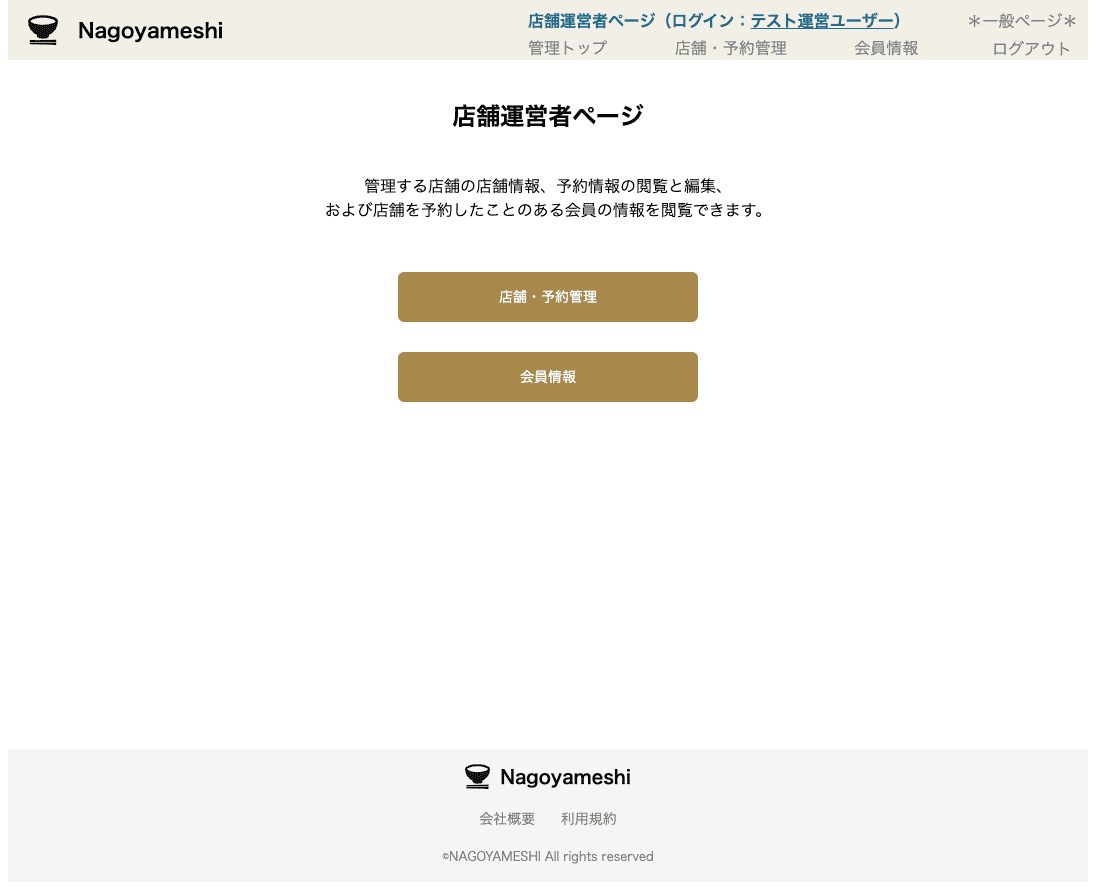
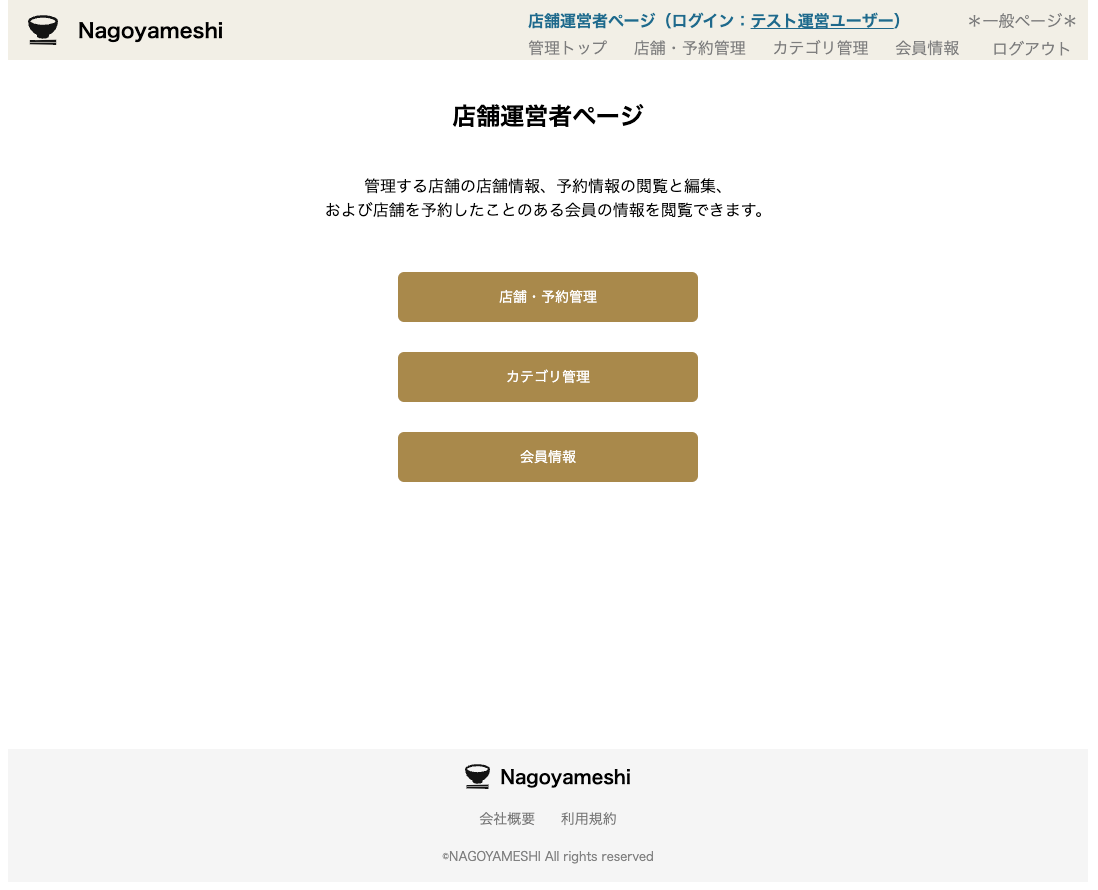
READMEファイル修正

diff --git a/README.md b/README.md
@@ -78,6 +78,11 @@ https://nagoyameshi.omochi-mochimental.net/
 
 
 
+#### カテゴリ管理
+![カテゴリ画面](image/nagoyameshi_management_category.png)
+
+
+
 #### 予約管理
 ![予約管理画面](image/nagoyameshi_management_reservation.png)
 
